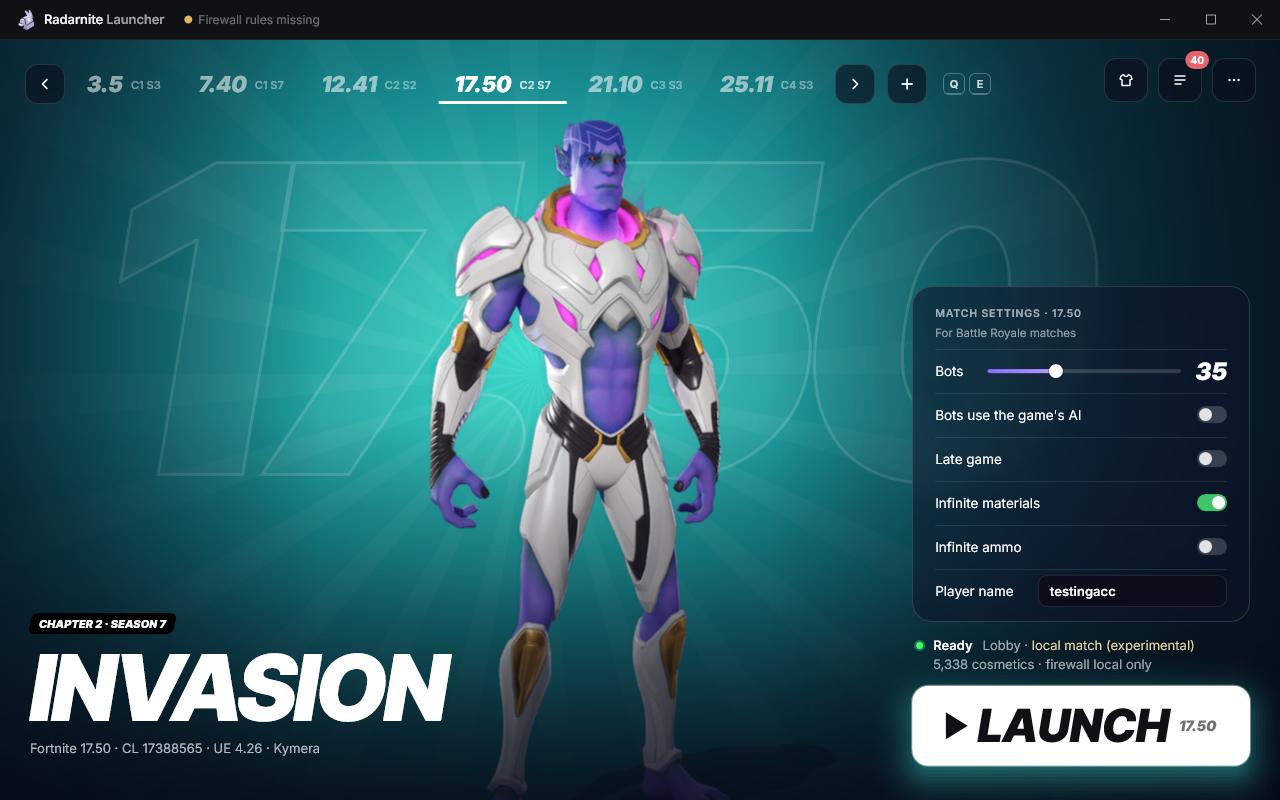
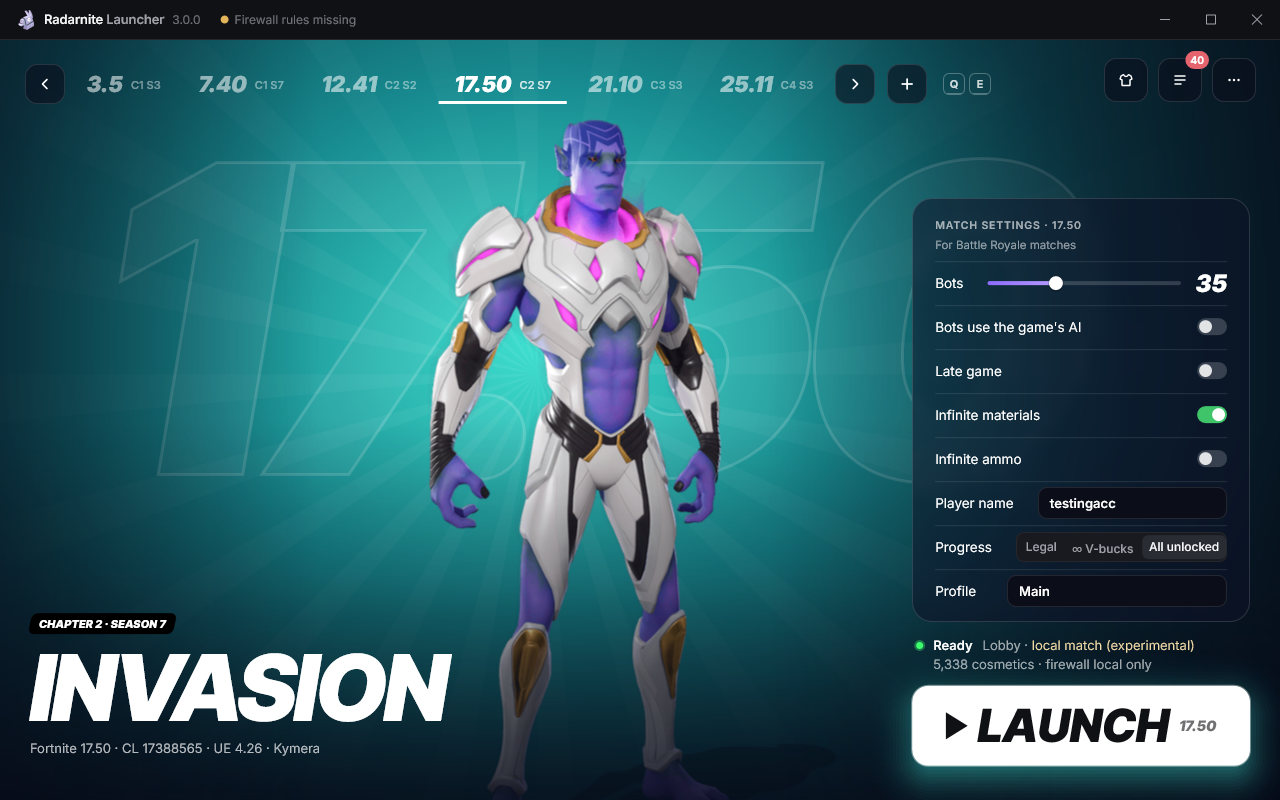
Show the launcher version in the title bar; update the bot AI note
The title bar shows the installed version (update::current(), the version
stamped at build time that the updater compares) after the name, in the
dim header style. The 14.30 bot AI note now says the bots move, fight and
build, with the difficulty setting their skill. Window selftest captures
regenerated (0 failed).

diff --git a/native/ui/ui.cpp b/native/ui/ui.cpp
@@ -1,5 +1,6 @@
 #include "ui.h"
 #include "port_ui.h"
+#include "../core/update.h"
 #include <commctrl.h>
 #include <math.h>
 #include <stdio.h>
@@ -1621,7 +1622,7 @@ float App::settingsBody(float x, float y0, float w) {
             y += 44;
             if (i == 0 && c.botsAI) {   // the page's warning when the bots' AI is on
                 Font wf{ Face::UI, 11.5f, 400, false };
-                std::wstring note = b->major == 14 ? L"**Bot AI is on.** Experimental: the game's own bots spawn but do not move or fight yet."
+                std::wstring note = b->major == 14 ? L"**Bot AI is on.** Experimental: the game's own bots move, fight and build; difficulty sets how well."
                                                    : L"**Bot AI is on.** On " + verLabel(*b) + L" it crashes the match server a few seconds after it starts.";
                 float th = rich(note, wf, 0, 0, w - 24, 16.5f, C::warnText, C::white, 0, false);
                 icon(Icon::Warn, x, y + 0.5f, 16, C::warn);
@@ -1789,7 +1790,13 @@ void App::drawTitle(float W) {
     float w1 = textW(L"Radarnite ", f, -0.13f);
     text(L"Radarnite", f, x, 0, w1, TB - 1, tc, 0, -0.13f);
     text(L"Launcher", f, x + w1, 0, 100, TB - 1, C::muted, 0, -0.13f);   // .mark span b keeps its colour when inactive
-    x += w1 + textW(L"Launcher", f, -0.13f) + 12;
+    x += w1 + textW(L"Launcher", f, -0.13f) + 8;
+    // the installed version, the one the updater compares (version.h RN_VERSION_STR as stamped at build time)
+    static const std::wstring kVer = rn::update::current().str();
+    Font vf{ Face::UI, 12, 400, false };
+    float vw = textW(kVer, vf);
+    text(kVer, vf, x, 0, vw + 2, TB - 1, C::dim);
+    x += vw + 12;
     if (W > 900 && loaded_ && !st_.builds.empty()) {
         bool fw = true; for (auto& b : st_.builds) if (b.firewall != L"OK") fw = false;
         dot(x + 8 + 4, (TB - 1) / 2, 8, fw ? C::ok : C::warn);
